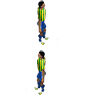
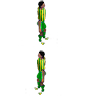
.

diff --git a/Voetbalmanager/src/oop/voetbalmanager/spel2D/Player.java b/Voetbalmanager/src/oop/voetbalmanager/spel2D/Player.java
@@ -2,16 +2,12 @@ package oop.voetbalmanager.spel2D;
 import java.awt.Dimension;
 import java.awt.KeyEventDispatcher;
 import java.awt.KeyboardFocusManager;
-import java.awt.Rectangle;
 import java.awt.event.KeyEvent;
 import java.awt.geom.Ellipse2D;
-import java.awt.geom.Rectangle2D;
 import java.util.ArrayList;
 
-import oop.voetbalmanager.model.RNG;
 import oop.voetbalmanager.model.Speler;
 import oop.voetbalmanager.model.Wedstrijdteam;
-import oop.voetbalmanager.view.ViewFrame;
 
 
 public class Player {
@@ -53,7 +49,7 @@ public class Player {
 	 */
 	public Player(Speler speler,  int team12, int playerID, Ball ball, Wedstrijdteam wteam, GamePanel gp){
 		this.speler = speler;
-		if(wteam.getNaam().equals("Feyenoord") || wteam.getNaam().equals("ADO Den Haag")){
+		if(wteam.getNaam().equals("Feyenoord") || wteam.getNaam().equals("ADO Den Haag")  || wteam.getNaam().equals("Ajax")){
 			this.spriteObj = new Sprite("images/"+wteam.getNaam(), team12);
 		}else{
 			this.spriteObj = new Sprite("images/general", team12);
@@ -247,7 +243,7 @@ public class Player {
 				y = 806;
 				randomRun = false;
 			}else if(//(ballAfstand() < anchorAfstand() && anchorAfstand() < boundsAnchor.width*2) ||
-					(ball.getOwner()==null && anchorAfstand() < 300) ||
+					(ball.getOwner()==null && anchorToBallAfstand() < 300) ||
 					(boundsAnchor.contains(this.x, this.y) &&
 				boundsAnchor.contains(ball.getXforP(), ball.getYforP()))){//!bounds.contains(this.x, this.y)){//
 				
@@ -388,6 +384,16 @@ public class Player {
 //		boundsCenterY = bounds.y + bounds.height/2;
 		double a = Math.pow((anchorX - x), 2);//boundsAnchor.getCenterX()
 		double b = Math.pow((anchorY - y), 2);//boundsAnchor.getCenterY()
+		double afst = Math.sqrt(a + b);
+//		System.out.println("to anchor: " + afst + " " + speler.getNaam());
+		return afst;
+	}
+	
+	public double anchorToBallAfstand(){
+//		boundsCenterX = bounds.x + bounds.width/2;
+//		boundsCenterY = bounds.y + bounds.height/2;
+		double a = Math.pow((anchorX - ball.getXforP()), 2);//boundsAnchor.getCenterX()
+		double b = Math.pow((anchorY - ball.getYforP()), 2);//boundsAnchor.getCenterY()
 		double afst = Math.sqrt(a + b);
 //		System.out.println("to anchor: " + afst + " " + speler.getNaam());
 		return afst;

diff --git a/Voetbalmanager/src/oop/voetbalmanager/view/ImagePanel.java b/Voetbalmanager/src/oop/voetbalmanager/view/ImagePanel.java
@@ -19,6 +19,7 @@ import oop.voetbalmanager.model.User;
 public class ImagePanel extends JPanel{
 	private BufferedImage image;
 	private JButton logout;
+	private boolean ps = false;
 	
 	static JLabel naamLable = new JLabel();
 	private String username;
@@ -70,8 +71,11 @@ public class ImagePanel extends JPanel{
         super.paintComponent(g);
 //        int w = image.getWidth(null);
 //        int h = image.getHeight(null);
-
-        g.drawImage(image, ((int)(ViewFrame.getFrameWidth()*0.20)-150)/2, naamLable.getHeight(), 150, 150, this);//null); 
+        int y = naamLable.getHeight();
+        if(ps){
+        	y = 0;
+        }
+        g.drawImage(image, ((int)(ViewFrame.getFrameWidth()*0.20)-150)/2, y, 150, 150, this);//null); 
     }
 	@Override
 	public Dimension getPreferredSize() {
@@ -96,5 +100,12 @@ public class ImagePanel extends JPanel{
 	 */
 	public void setImage(BufferedImage image) {
 		this.image = image;
+	}
+
+	/**
+	 * @param ps the ps to set
+	 */
+	public void setPs(boolean ps) {
+		this.ps = ps;
 	}
 }

diff --git a/Voetbalmanager/src/oop/voetbalmanager/view/PandS.java b/Voetbalmanager/src/oop/voetbalmanager/view/PandS.java
@@ -1,4 +1,6 @@
 package oop.voetbalmanager.view;
+
+
 import java.awt.BorderLayout;
 import java.awt.Color;
 import java.awt.Dimension;
@@ -28,6 +30,8 @@ import javax.swing.filechooser.FileNameExtensionFilter;
 
 import layout.SpringUtilities;
 import oop.voetbalmanager.model.User;
+
+import org.apache.commons.io.FileUtils;
 
 
 public class PandS extends JPanel{
@@ -78,7 +82,7 @@ public class PandS extends JPanel{
 	        			ImagePanel.setNameLable(userField.getText());
 	        		}
 	        		else if(!(passField.getText().length()==0)){
-	        			LoginPanel.setWachtwoord(passField.getText());
+	        		//	LoginPanel.setWachtwoord(passField.getText());
 	        		}
 	        	}
 	        });
@@ -139,6 +143,7 @@ public class PandS extends JPanel{
 		    avatar.setBackground(null);
 		    
 		    imgP = new ImagePanel(vframe);
+		    imgP.setPs(true);
 		    avatar.add(Box.createRigidArea(new Dimension(60,0)));
 		    avatar.add(imgP, BorderLayout.WEST);
 		    imgP.setBackground(null);

diff --git a/Voetbalmanager/src/oop/voetbalmanager/Application.java b/Voetbalmanager/src/oop/voetbalmanager/Application.java
@@ -2,19 +2,7 @@ package oop.voetbalmanager;
 import java.awt.EventQueue;
 
 import oop.voetbalmanager.controller.Controller;
-import oop.voetbalmanager.model.Bot;
-import oop.voetbalmanager.model.Divisie;
-import oop.voetbalmanager.model.Driver;
-import oop.voetbalmanager.model.Team;
-import oop.voetbalmanager.model.User;
-import oop.voetbalmanager.model.Wedstrijdteam;
-import oop.voetbalmanager.model.XMLreader;
-import oop.voetbalmanager.spel2D.VeldPanel;
-import oop.voetbalmanager.view.Competition;
-import oop.voetbalmanager.view.Home;
 import oop.voetbalmanager.view.Login;
-import oop.voetbalmanager.view.PandS;
-import oop.voetbalmanager.view.TeamPanel;
 import oop.voetbalmanager.view.ViewFrame;
 
 

diff --git a/Voetbalmanager/src/oop/voetbalmanager/view/Table.java b/Voetbalmanager/src/oop/voetbalmanager/view/Table.java
@@ -1,18 +1,8 @@
 package oop.voetbalmanager.view;
 
-import java.awt.BorderLayout;
 import java.awt.Color;
 import java.awt.Dimension;
-import java.awt.Font;
-import java.awt.Graphics;
-import java.awt.image.BufferedImage;
-import java.io.File;
-import java.io.IOException;
 
-import javax.imageio.ImageIO;
-import javax.swing.Box;
-import javax.swing.JButton;
-import javax.swing.JLabel;
 import javax.swing.JPanel;
 import javax.swing.JScrollPane;
 import javax.swing.JTable;

diff --git a/Voetbalmanager/src/oop/voetbalmanager/spel2D/Controller2D.java b/Voetbalmanager/src/oop/voetbalmanager/spel2D/Controller2D.java
@@ -1,17 +1,10 @@
 package oop.voetbalmanager.spel2D;
 import java.awt.Dimension;
-import java.awt.event.ActionEvent;
-import java.awt.event.ActionListener;
-import java.text.SimpleDateFormat;
 import java.util.ArrayList;
-import java.util.Calendar;
 import java.util.Collections;
 import java.util.Comparator;
 
-import javax.swing.Timer;
-
 import oop.voetbalmanager.model.RNG;
-import oop.voetbalmanager.model.User;
 
 
 public class Controller2D {

diff --git a/Voetbalmanager/src/oop/voetbalmanager/view/Login.java b/Voetbalmanager/src/oop/voetbalmanager/view/Login.java
@@ -2,7 +2,6 @@ package oop.voetbalmanager.view;
 
 import java.awt.Color;
 import java.awt.Dimension;
-import java.awt.Font;
 import java.awt.Graphics;
 import java.awt.Image;
 import java.awt.Insets;
@@ -11,7 +10,6 @@ import java.io.IOException;
 
 import javax.imageio.ImageIO;
 import javax.swing.JButton;
-import javax.swing.JLabel;
 import javax.swing.JPanel;
 
 import oop.voetbalmanager.model.RNG;

diff --git a/Voetbalmanager/src/oop/voetbalmanager/view/Tabs.java b/Voetbalmanager/src/oop/voetbalmanager/view/Tabs.java
@@ -2,13 +2,10 @@ package oop.voetbalmanager.view;
 
 import java.awt.BorderLayout;
 import java.awt.Color;
-import java.awt.Dimension;
-import java.awt.GridLayout;
 
 import javax.swing.JButton;
 import javax.swing.JPanel;
 import javax.swing.JTabbedPane;
-import javax.swing.UIManager;
 
 //tweede panel waar alle andere panels(tabs) in zitten
 public class Tabs extends JPanel{

diff --git a/Voetbalmanager/src/oop/voetbalmanager/spel2D/Sprite.java b/Voetbalmanager/src/oop/voetbalmanager/spel2D/Sprite.java
@@ -1,17 +1,11 @@
 package oop.voetbalmanager.spel2D;
 
 
-import java.awt.Color;
-import java.awt.Graphics;
-import java.awt.event.ActionEvent;
-import java.awt.event.ActionListener;
 import java.awt.image.BufferedImage;
 import java.io.File;
 import java.io.IOException;
 
 import javax.imageio.ImageIO;
-import javax.swing.JPanel;
-import javax.swing.Timer;
 
 
 

diff --git a/Voetbalmanager/src/oop/voetbalmanager/view/TeamPanel.java b/Voetbalmanager/src/oop/voetbalmanager/view/TeamPanel.java
@@ -30,7 +30,6 @@ import javax.swing.border.TitledBorder;
 import oop.voetbalmanager.controller.Controller;
 import oop.voetbalmanager.model.Driver;
 import oop.voetbalmanager.model.Opstelling;
-import oop.voetbalmanager.model.Team;
 import oop.voetbalmanager.model.User;
 import oop.voetbalmanager.model.XMLreader;
 

diff --git a/Voetbalmanager/src/oop/voetbalmanager/view/homerechts.java b/Voetbalmanager/src/oop/voetbalmanager/view/homerechts.java
@@ -1,15 +1,7 @@
 package oop.voetbalmanager.view;
 import java.awt.Color;
-import java.awt.GridBagConstraints;
-import java.awt.GridBagLayout;
-
-
-
-
-
 
 import javax.swing.BorderFactory;
-import javax.swing.JButton;
 import javax.swing.JPanel;
 import javax.swing.JTextPane;
 import javax.swing.text.Style;

diff --git a/Voetbalmanager/src/oop/voetbalmanager/test/UserTest.java b/Voetbalmanager/src/oop/voetbalmanager/test/UserTest.java
@@ -1,6 +1,7 @@
 package oop.voetbalmanager.test;
 
-import static org.junit.Assert.*;
+import static org.junit.Assert.assertEquals;
+import static org.junit.Assert.assertNotEquals;
 import oop.voetbalmanager.model.Divisie;
 import oop.voetbalmanager.model.Team;
 import oop.voetbalmanager.model.User;
